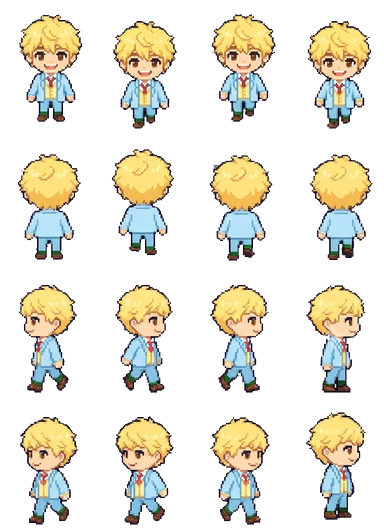
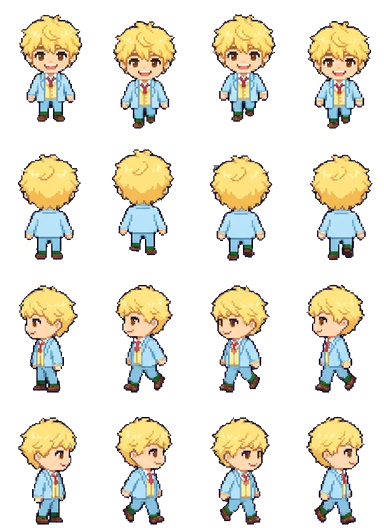
Keep Shima facing one way while walking sideways
Claude-Session: https://claude.ai/code/session_01KaPsBYLrtbRfMYNG2xeBCK

diff --git a/docs/app.js b/docs/app.js
@@ -48,7 +48,7 @@ function spr(cat, k, col, sc) {
   return `<div class="clip" style="width:${it[2] * sc}px;height:${it[3] * sc}px;POS"><img class="px" src="assets/decor/${cat}.png" alt="" style="width:${S.sw * sc}px;height:${S.sh * sc}px;margin-left:${-col * S.cw * sc}px;margin-top:${-i * S.ch * sc}px"></div>`;
 }
 const icon = (k, sz) => `<span class="itm" style="width:${sz}px;height:${sz}px"><img class="px" src="assets/ui/items.png" alt="" style="width:${IT.length * sz}px;height:${sz}px;margin-left:${-ITM[k].i * sz}px"></span>`;
-const face = (id, w) => { const s = w / 96; return `<img class="px" src="assets/ch/${id}.webp?v=15" alt="" style="position:absolute;width:${384 * s}px;height:${528 * s}px;left:${-(96 * s - w) / 2}px;top:0;max-width:none">`; };
+const face = (id, w) => { const s = w / 96; return `<img class="px" src="assets/ch/${id}.webp?v=16" alt="" style="position:absolute;width:${384 * s}px;height:${528 * s}px;left:${-(96 * s - w) / 2}px;top:0;max-width:none">`; };
 
 // ---------- 저장 ----------
 let fb = null, user = null, S = null, saveT = null;
@@ -116,7 +116,7 @@ function sleepHTML(id, r) {
   const pos = r.a && r.a[0] === 'bed' ? 'left:3%;bottom:20%' : r.b && r.b[0] === 'bed' ? 'right:3%;bottom:20%' : 'left:calc(50% - 44px);bottom:6%';
   const s = 36 / 96;
   return `<div style="position:absolute;width:88px;height:56px;${pos};z-index:5"><div style="position:absolute;inset:0;filter:brightness(.22)">
-    <div style="position:absolute;left:11px;top:1px;width:36px;height:50px;overflow:hidden;transform:rotate(-90deg)"><img class="px" src="assets/ch/${id}.webp?v=15" alt="" style="width:${384 * s}px;height:${528 * s}px;max-width:none;margin-top:${-132 * s}px"></div>
+    <div style="position:absolute;left:11px;top:1px;width:36px;height:50px;overflow:hidden;transform:rotate(-90deg)"><img class="px" src="assets/ch/${id}.webp?v=16" alt="" style="width:${384 * s}px;height:${528 * s}px;max-width:none;margin-top:${-132 * s}px"></div>
     <div style="position:absolute;left:19px;top:19px;width:67px;height:29px;border:2px solid var(--ink);border-radius:8px 6px 4px 4px;background:#8ccff5;background-image:repeating-linear-gradient(90deg,transparent 0 10px,rgba(255,255,255,.5) 10px 13px)"></div></div>
     <span class="emo" style="left:8px;top:-22px;color:#5b6bd6">Z z z</span></div>`;
 }
@@ -126,7 +126,7 @@ function roomHTML(id, o, scale) {
     <div class="floor" style="background-color:${PAL[r.fc][1]};background-image:${tileUrl('floor', r.fl)}"></div>
     ${slot('deco', r.dc, 'left:6%;top:6%')}${slot('furn', r.a, 'left:3%;bottom:20%')}${slot('furn', r.b, 'right:3%;bottom:20%')}${slot('prop', r.pr, 'left:28%;bottom:4%;z-index:2')}
     ${id && o.sleeping ? sleepHTML(id, r) : ''}${id && o.job ? `<div style="position:absolute;left:50%;top:38%;transform:translateX(-50%);z-index:5;background:#fff;border:3px solid var(--ink);border-radius:10px;padding:6px 10px;font-size:11px;text-align:center;line-height:1.5"><img src="assets/ui/ic_job.png" alt="" style="width:18px;vertical-align:-4px"> ${esc(JOB_NAME[id])} 알바 중<br><b id="jobleft">${timeLeft(o.job.until)}</b></div>` : ''}
-    ${id ? `<div class="shadow" id="shd" ${o.sleeping || o.job ? 'style="display:none"' : ''}></div><div class="man" id="man" ${o.sleeping || o.job ? 'style="display:none"' : ''}><img class="px" src="assets/ch/${id}.webp?v=15" alt="${esc(nameOf(id))}"></div><span class="emo" id="emo" hidden></span><span class="mumble" id="mum" hidden></span>` : ''}
+    ${id ? `<div class="shadow" id="shd" ${o.sleeping || o.job ? 'style="display:none"' : ''}></div><div class="man" id="man" ${o.sleeping || o.job ? 'style="display:none"' : ''}><img class="px" src="assets/ch/${id}.webp?v=16" alt="${esc(nameOf(id))}"></div><span class="emo" id="emo" hidden></span><span class="mumble" id="mum" hidden></span>` : ''}
     ${o.sleeping ? `<div class="night"></div><div class="sleepleft">쿨쿨 · 일어나기까지 <b id="sleepleft">${timeLeft(wakeAt(o)).replace(' 남음', '')}</b></div>` : ''}
   </div>`;
 }

diff --git a/docs/index.html b/docs/index.html
@@ -17,6 +17,6 @@
 <main id="app" aria-live="polite"></main>
 <div id="toast" role="status" hidden></div>
 <script src="firebase-config.js?v=3"></script>
-<script type="module" src="app.js?v=36"></script>
+<script type="module" src="app.js?v=37"></script>
 </body>
 </html>

diff --git a/tk_chars.py b/tk_chars.py
@@ -37,7 +37,7 @@ SIDE = {
     'chiro':          dict(left=[(2, 0), (2, 1), (3, 1), (3, 2)], right=[(2, 2), (2, 3), (2, 4), (3, 3)]),
     'saiki':          dict(left=[(2, 1), (2, 2), (2, 3), (2, 4)], right=None),
     'nozaki':         dict(left=[(3, 0), (3, 1), (3, 2)], right=[(2, 0), (2, 1), (2, 3), (2, 4)]),
-    'shima':          dict(left=[(3, 1), (3, 2), (3, 3), (3, 4)], right=[(2, 1), (2, 2), (2, 3), (2, 4)]),
+    'shima':          dict(right=[(2, 0), (3, 2), (2, 3), (3, 3)], left='mirror'),
     'mint':           dict(left=[(2, 1), (2, 2), (2, 3), (2, 4)], right=None, outline=True),
     'karate':         dict(left=[(2, 1), (2, 2), (3, 1), (3, 2)], right=[(2, 4), (3, 3), (3, 4)], fill_inside=True),
 }
